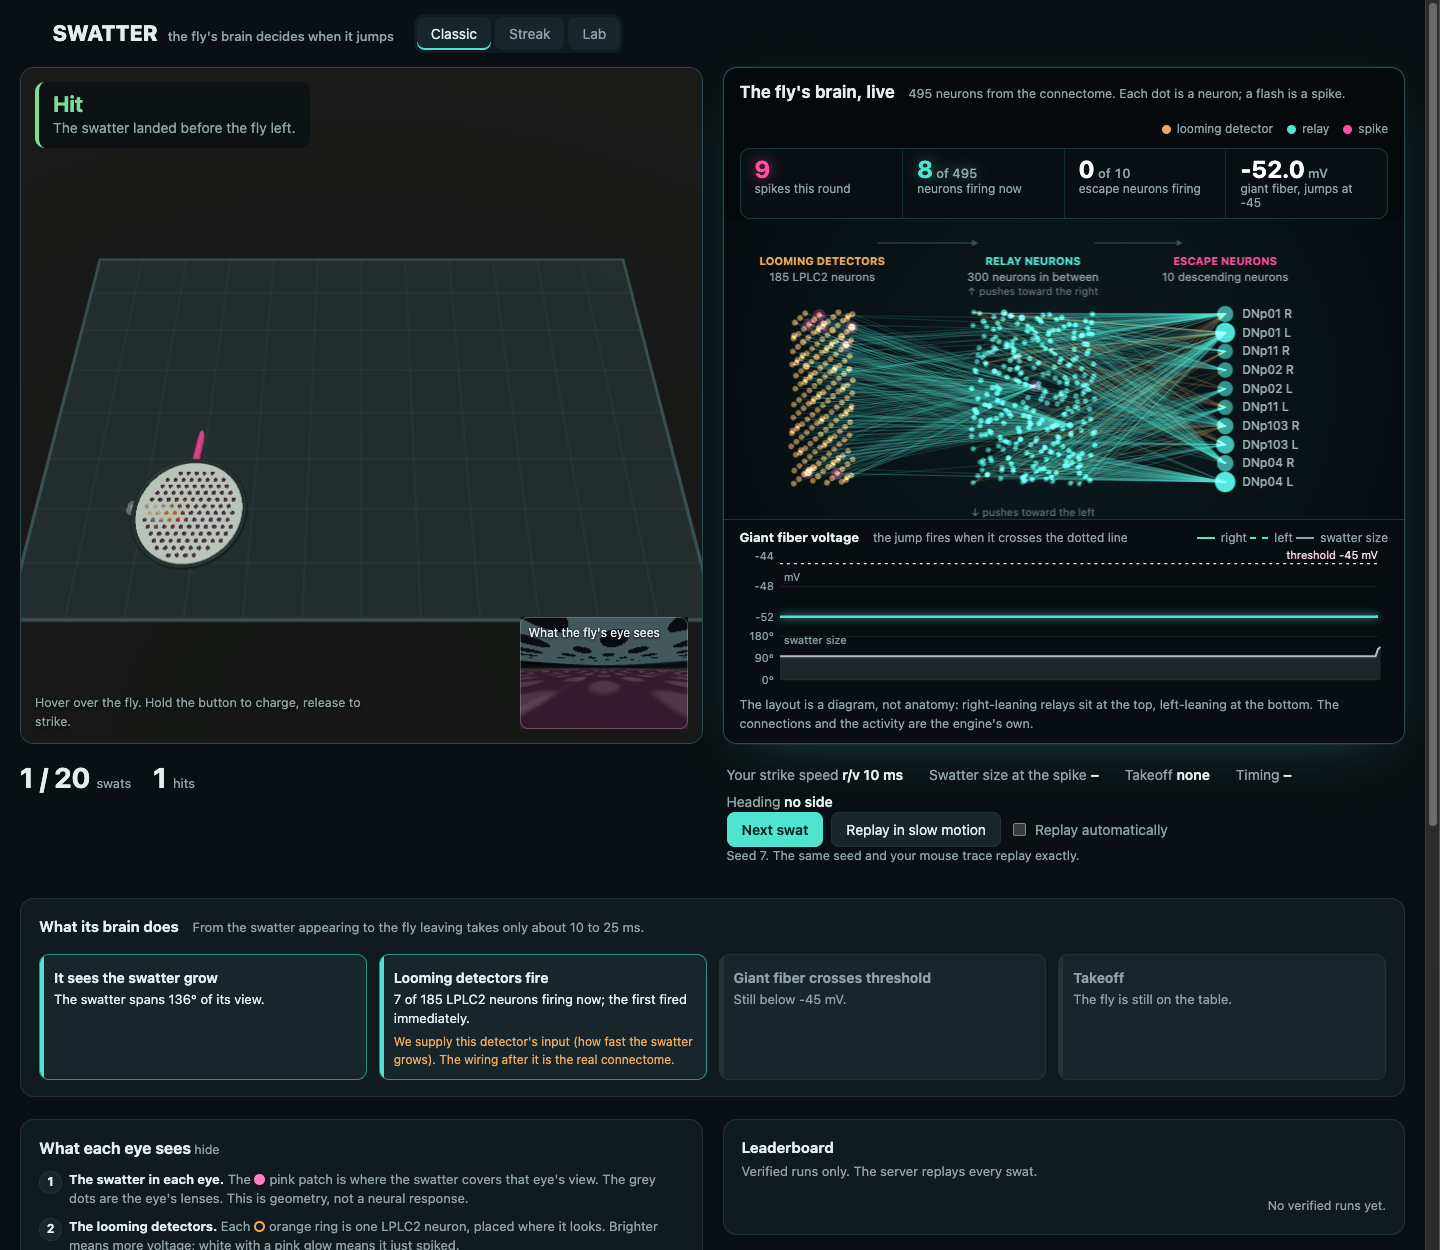
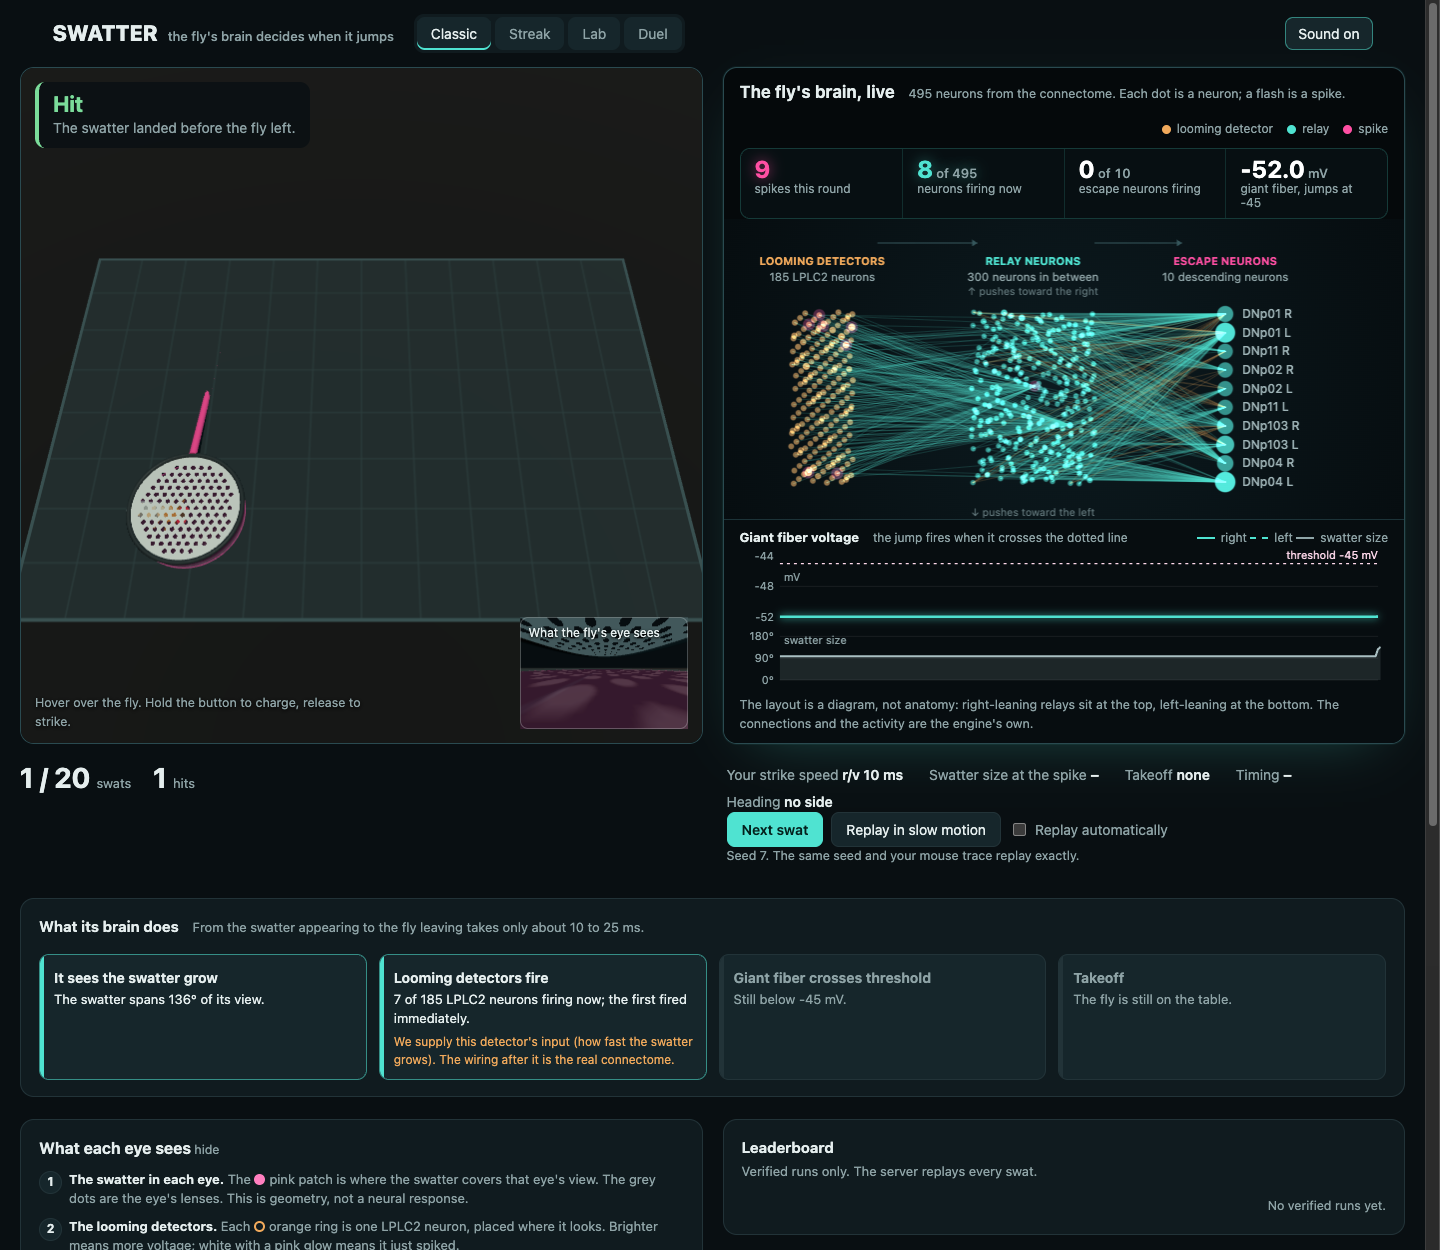
Refresh README and game screenshots: Duel hero, current layout

diff --git a/docs/game.md b/docs/game.md
@@ -121,8 +121,8 @@ the engine and the server's replay are untouched, and nothing drawn is read back
 - **The fly is an illustration.** It is drawn about 13 times life size. Its crouch follows the giant fiber's voltage and its
   takeoff is the one the spikes decided (a push-off to the chosen side, or straight up when the model gives no side). It
   never decides anything, and the page says so.
-- Screenshot URLs: `?demo=escape&after=110` freezes the scene that many simulated ms after the round ended, `&replay=1`
-  starts the slow-motion replay, `&eyes=1` opens the eye panel.
+- Screenshot URLs (Classic is no longer the default mode, so add `mode=classic`): `?mode=classic&demo=escape&after=110` freezes the scene that many simulated ms after the round ended, `&replay=1`
+  starts the slow-motion replay, `&eyes=1` opens the eye panel. Duel: `?mode=duel&demo=1&seed=N[&at=ms][&after=ms]`.
 
 ![hit](figures/game_hit.png)
 ![escaped](figures/game_escape.png)

diff --git a/README.md b/README.md
@@ -4,7 +4,9 @@
 
 **[Play it](https://swatter-flybody.vercel.app/)** · runs in the browser, needs WebGL · desktop with a mouse works best
 
-![SWATTER: a fly that has just left the table, with its brain's activity on the right](docs/figures/game_escape.png)
+![Duel: the swatter's brain, on the right, has just fired its escape neurons and released the strike; the fly's brain is on the left](docs/figures/game_duel_strike.png)
+
+![Classic: a fly that has just left the table, with its brain's activity on the right](docs/figures/game_escape.png)
 
 You hover a swatter over a fly. The fly sees it grow, and a 495-neuron slice of the fly connectome decides when and
 which way it jumps. Whether you hit it depends on that decision, and the page shows the decision as it happens: the
